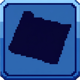
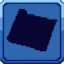
Mejora en imagenes

Changed region(s): [[0.0938, 0.0312, 0.9062, 0.0625]]

diff --git a/assets/redimenzionar.py b/assets/redimenzionar.py
@@ -1,10 +1,10 @@
 from PIL import Image
 import os
 
-for carpeta in ["assets/personajes/Juggernaut/Quieto"]:
+for carpeta in ["assets/objetos"]:
     for archivo in os.listdir(carpeta):
         if archivo.endswith(".png"):
             img = Image.open(f"{carpeta}/{archivo}")
-            img = img.resize((80,80))
+            img = img.resize((64,64))
             img.save(f"{carpeta}/{archivo}")
             print(f"✓ {archivo}")
